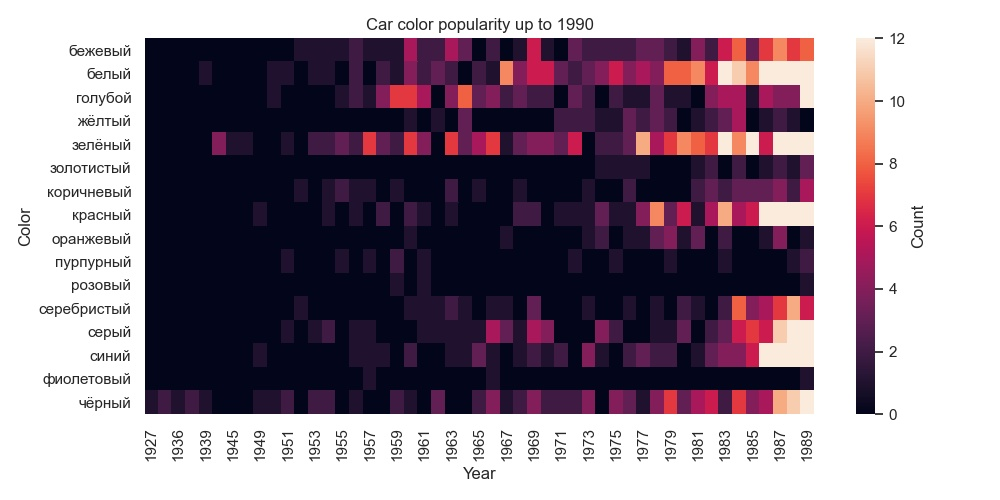
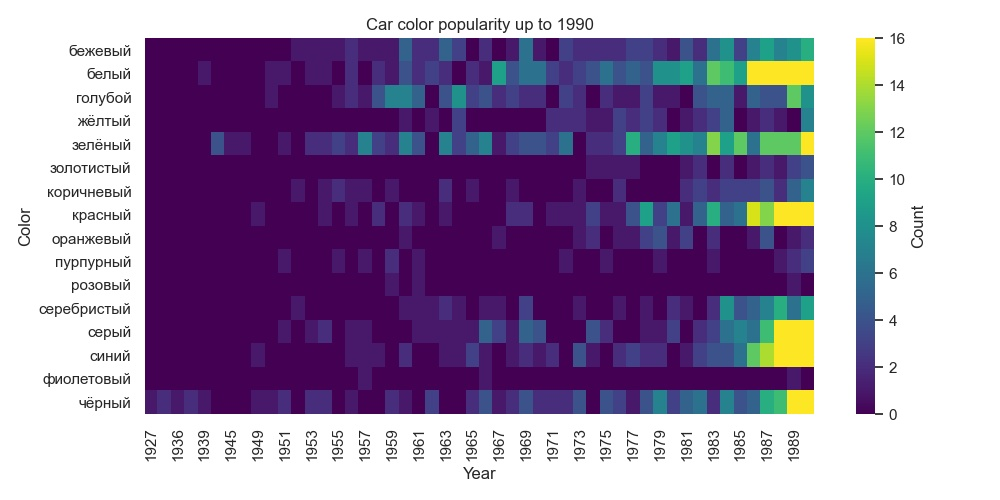
another pair of plots

diff --git a/autoru_eda.py b/autoru_eda.py
@@ -14,10 +14,9 @@ source = pd.read_csv('autoru_cleaned.csv', sep=';')
 ### cut high prices
 df = source[source['price'] < source['price'].quantile(0.95)]
 
-'''
-### colors popularity before and after 1990
+### colors popularity before 1990
 colors = df[['year', 'color', 'hps']].groupby(['year', 'color'], as_index=False).count()
-colors = colors[colors['year'] < 1990]
+colors = colors[colors['year'] <= 1990]
 colors = colors.pivot_table(values='hps', 
     index='color', 
     columns='year', 
@@ -27,6 +26,7 @@ plt.figure(figsize=(10, 5))
 sns.heatmap(colors,
     robust=True,
     cbar_kws={'label': 'Count'},
+    cmap='viridis'
     )
 plt.xticks(rotation=90)
 plt.title('Car color popularity up to 1990')
@@ -34,10 +34,33 @@ plt.xlabel('Year')
 plt.ylabel('Color')
 plt.tight_layout()
 plt.savefig('plots/colors_year_1990.jpg')
-plt.show()
+# plt.show()
+plt.close()
+
+### color popularity from 1990 up to today
+colors = df[['year', 'color', 'hps']].groupby(['year', 'color'], as_index=False).count()
+colors = colors[colors['year'] > 1990]
+colors = colors.pivot_table(values='hps', 
+    index='color', 
+    columns='year', 
+    aggfunc='sum', 
+    fill_value=0)
+plt.figure(figsize=(10, 5))
+sns.heatmap(colors,
+    robust=True,
+    cbar_kws={'label': 'Count'},
+    cmap='viridis'
+    )
+plt.xticks(rotation=90)
+plt.title('Car color popularity starting 1990')
+plt.xlabel('Year')
+plt.ylabel('Color')
+plt.tight_layout()
+plt.savefig('plots/colors_after_1990.jpg')
+# plt.show()
+plt.close()
 
 
-'''
 ### gas type vs price plot
 # gas_types = df['gas_type'].value_counts().index[:2]
 # df_gas = df[df['gas_type'].isin(gas_types)]
@@ -48,8 +71,8 @@ plt.xlabel('Price')
 plt.ylabel('Count')
 plt.title('Price vs gas type distribution')
 plt.savefig('plots/gas_price.jpg')
-plt.show()
-# plt.clf()
+# plt.show()
+plt.close()
 
 
 ### age vs price plot
@@ -66,4 +89,4 @@ plt.xlabel('Production year')
 plt.title('Mean price vs Production year', fontsize=20)
 
 # plt.show()
-plt.clf()
+plt.close()
